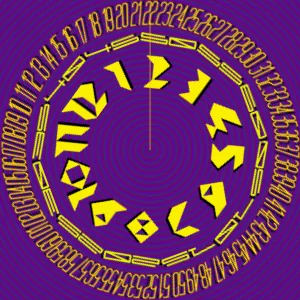
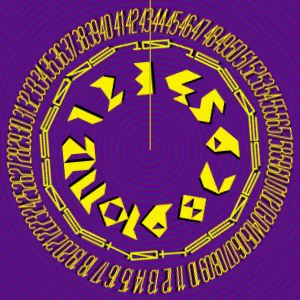
n

diff --git a/src/pages/2026/26-08/26-08-15/Clock.module.css b/src/pages/2026/26-08/26-08-15/Clock.module.css
@@ -39,12 +39,13 @@
   position: absolute;
   bottom: 50%;
   left: 50%;
-  width: 0.3vmin;
+  width: 0.2vmin;
   height: 50vmin;
-  background-color: rgba(248, 193, 12, 0.679);
+  background-color: rgba(253, 246, 30, 0.938);
   transform: translateX(-50%);
   z-index: 4;
   pointer-events: none;
+  filter: drop-shadow(0.2vmin 0px 0px rgba(1, 0, 0, 0.722));
 }
 
 .ring {
